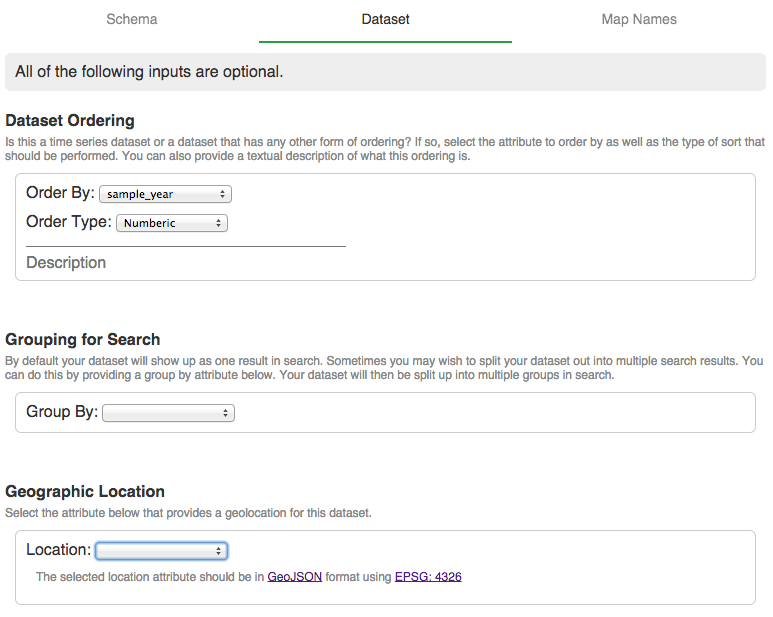
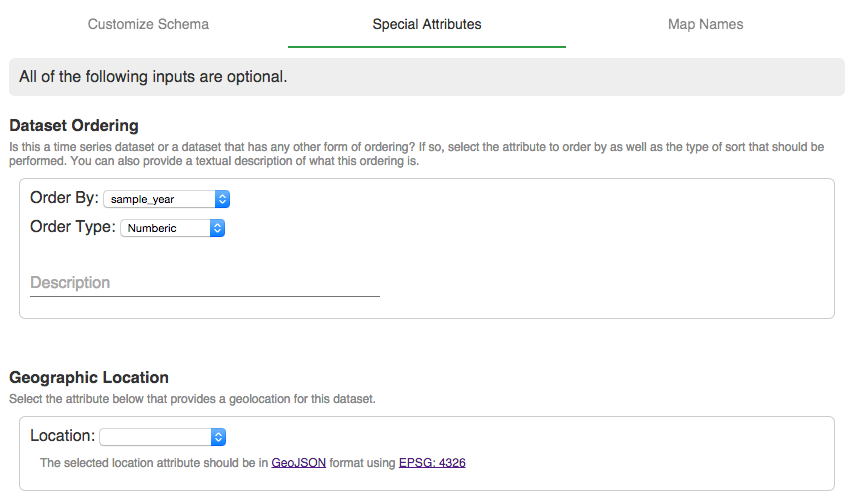
walkthrough updates

diff --git a/tutorial/walkthrough/index.html b/tutorial/walkthrough/index.html
@@ -262,12 +262,11 @@
 					</section>
 
 					<section>
-						<h4>Dataset</h4>
+						<h4>Special Attributes</h4>
 						<p>In the dataset section you can specify special attributes that further describe your dataset.</p>
 						<ul>
-							<li><b>Order.</b> If your dataset has ordering (ex: the dataset is a time series) you can specify an attribute to order by. You can also specify how to parse the 'order by' attribute (string, number or date).</li>
-							<li><b>Group.</b> If you would like to split up your dataset into several groups for searching purposes, you can provide a 'group by' attribute.</li>
-							<li><b>Location.</b> If you would like to specify a geographic location for your dataset, you can set a location attribute.  The location attribute should be GeoJson in EPSG: 4326.</li>
+							<li><b style="color:orange">Order.</b> If your dataset has ordering (ex: the dataset is a time series) you can specify an attribute to order by. You can also specify how to parse the 'Order By' attribute (string, number or date).</li>
+							<li><b style="color:orange">Location.</b> If you would like to specify a geographic location for your dataset, you can set a location attribute.  The location attribute should be GeoJson in EPSG: 4326.</li>
 						</ul>
 					</section>
 
@@ -283,33 +282,16 @@
 					</section>
 				</section>
 				
-				<section>
-					<section>
-						<h2>Inspect Dataset</h2>
-						<p>So far you have provided EcoSIS with file format information as well as supplemental schema information for your dataset.  Now it's time to make sure the importer has correctly understood you.  Using the 'Inspect' menu item in the left navigation you can inspect and veryify your spectral data.</p>
-					</section>
-					<section>
-						<img src="ss/spinspect1.png" />
-						<p>Click the arrow next to 'Metadata' to inspect.</p>
-					</section>
-
-					<section>
-						<p>Here you can inspect the attribute types as well as values.</p>
-						<img src="ss/spinspect2.png" />
-						<p style="font-size:70%;color: #888">Note: Non-standard ecosis attribute names are in <i>italic</i> while mapped attribute names show both the standard name as well as the non-standard name.</p>
-					</section>
-				</section>
-
 				
 				<section>
 					<section>
-						<h2>Upload Resources</h2>
-						<p>We are now ready to upload our data.  Click the 'check' button on the right hand side to give the dataset one final review before upload.</p>
+						<h2>Push to Search</h2>
+						<p>At this point, everything we have done has been saved on the data management server but none of the changes have been pushed to Search, the primary interface for users to find your data.  Click the 'Cloud' icon to start the push.</p>
 
 						<img src="ss/upload1.png" />
 					</section>
 					<section>
-						<p>Review your upload the click 'Finalize' to start the upload process or 'Cancel' to go back and make edits.</p>
+						<p>Review your dataset, then click 'Push' to start the process or 'Cancel' to go back and make edits.</p>
 						<img src="ss/upload2.png"  />
 					</section>
 				</section>
